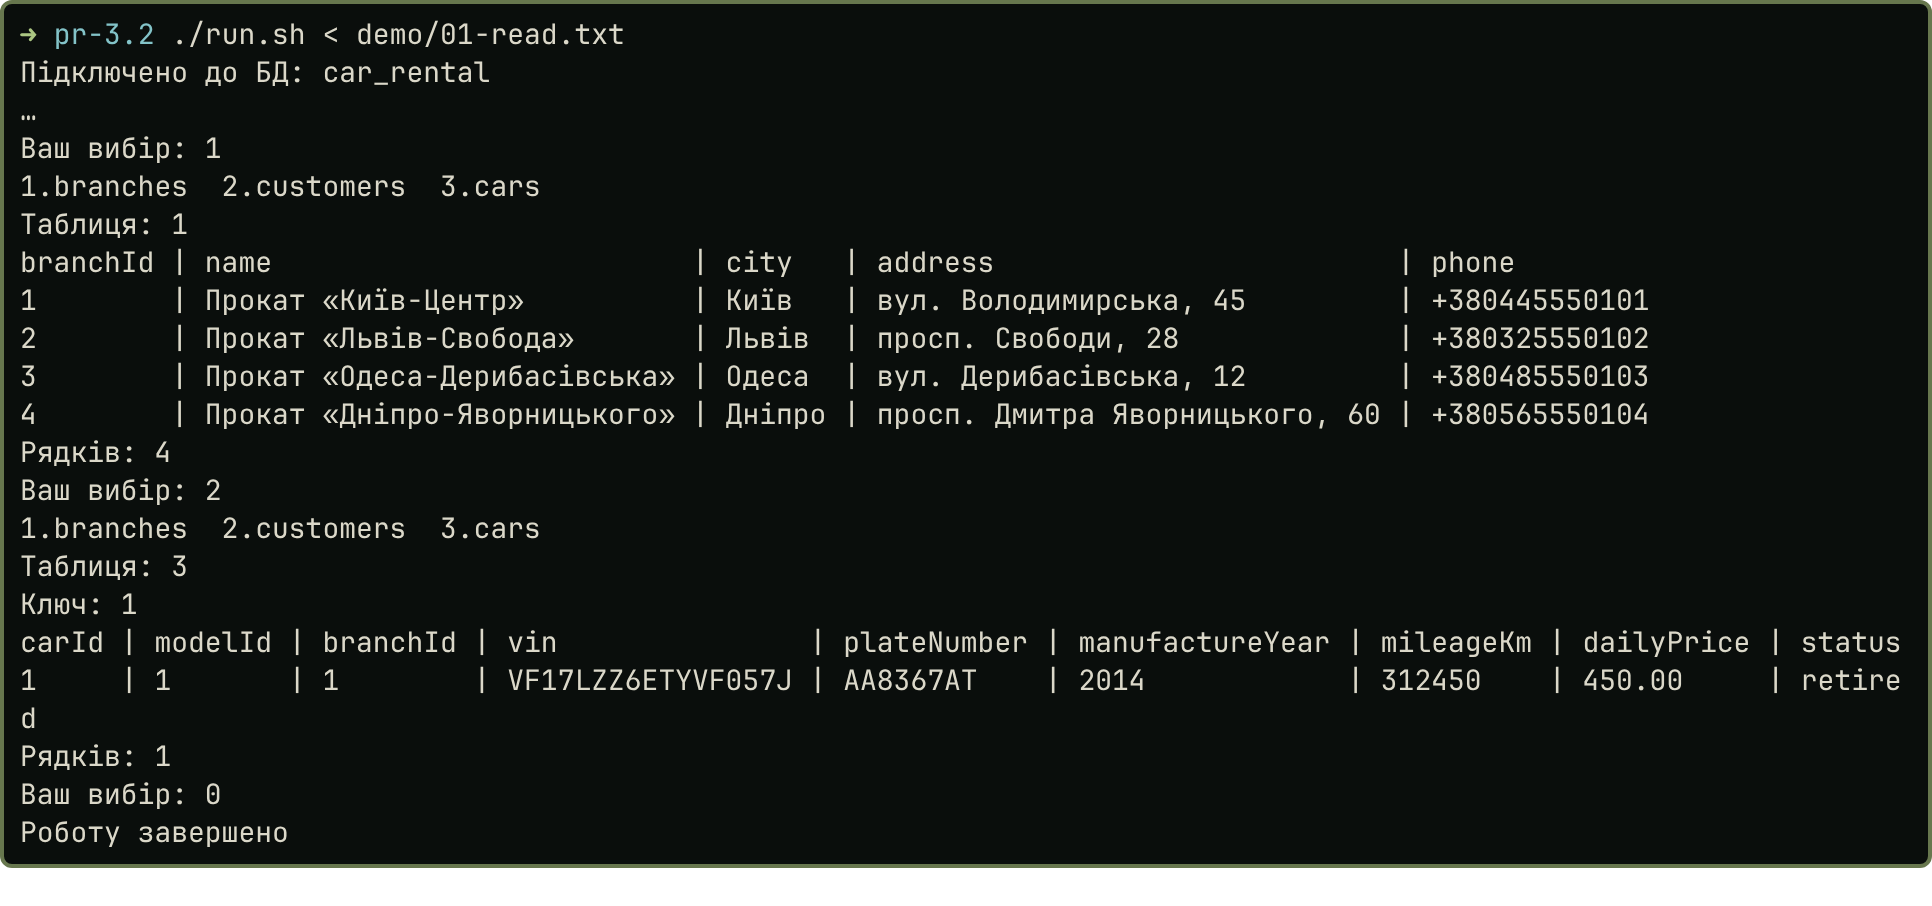
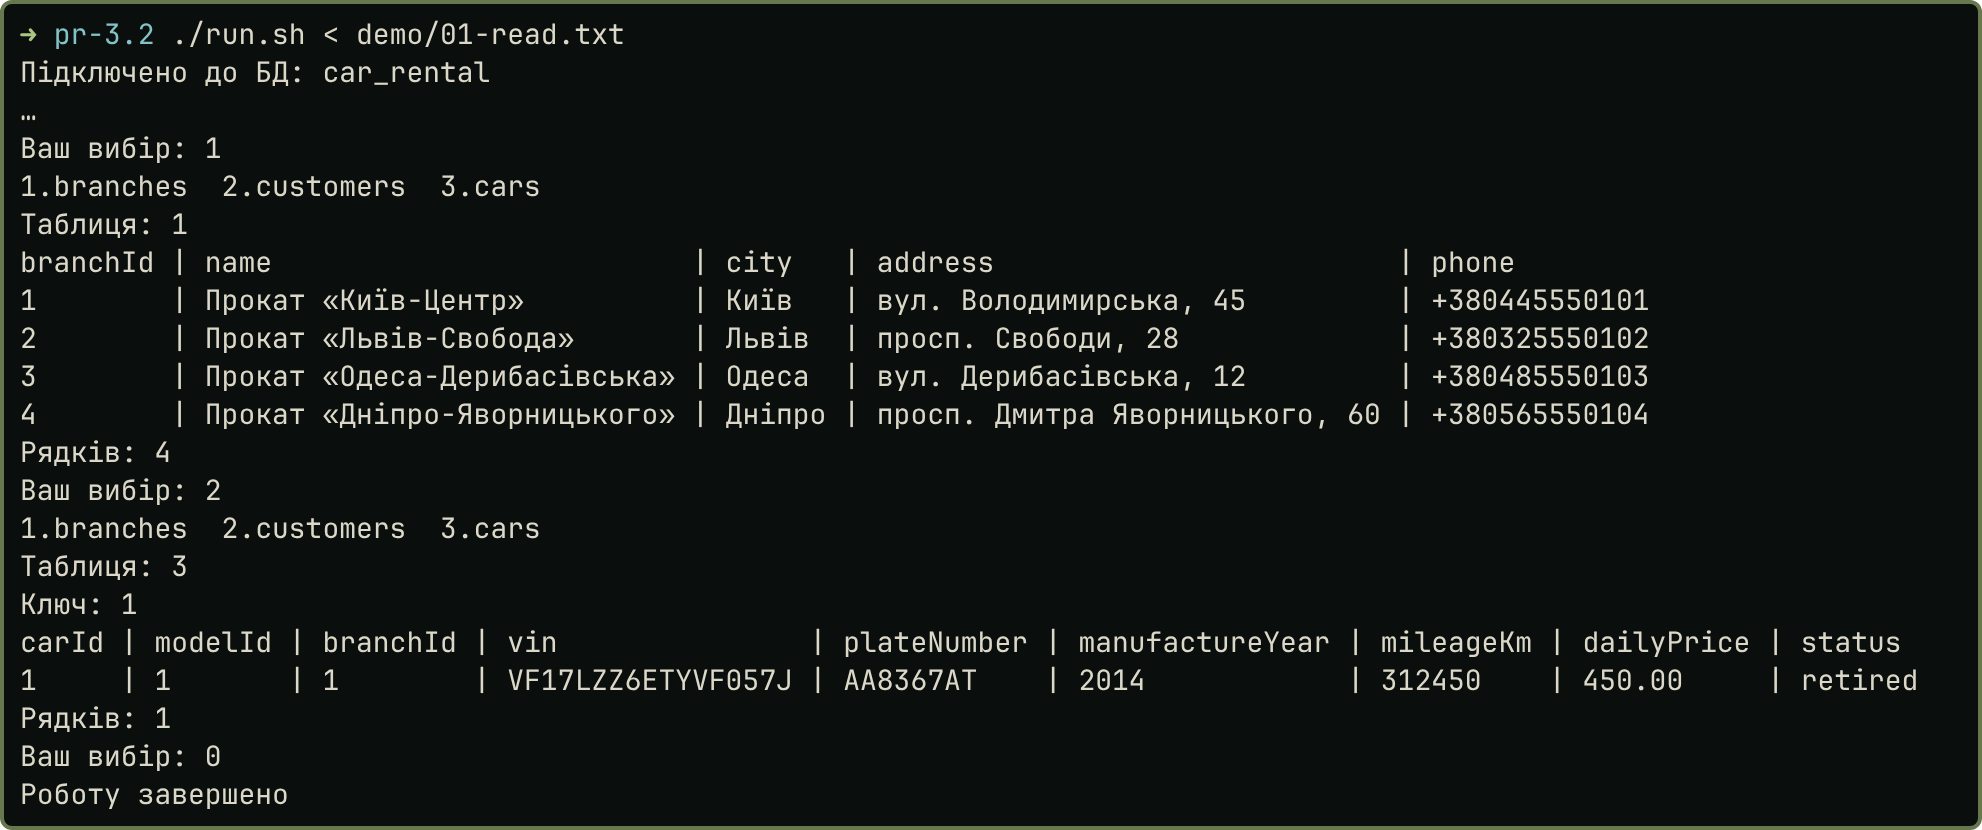
docs(db): polish reports 3.2, 5.2-5.4

diff --git a/db/sr-5.4/report.md b/db/sr-5.4/report.md
@@ -76,7 +76,7 @@ session.createQuery("""
 | Зв'язки між таблицями | вручну в `JOIN` | вручну в `JOIN` | поля класів, `join` за зв'язком |
 | Міграції схеми | немає | немає | генерація сутностей і `validate`; версії дав Flyway |
 | Ризик N+1 | не виникає непомітно: кожен запит пишу сам, цикл із запитом на рядок дав би його теж | те саме | виникає непомітно через ліниве завантаження (рис. 3) |
-| Де доречно | прості й некритичні до часу операції, звіти, один раз написані запити | звіти й запити, де потрібен свій SQL і зручний результат | багата доменна модель із зв'язками й CRUD |
+| Де доречно | прості утиліти, пакетні операції й місця, де потрібен повний контроль над SQL | звіти й запити, де потрібен свій SQL і зручний результат | багата доменна модель із зв'язками й CRUD |
 
 Те, що в Hibernate менше контролю, видно з двох дослідів. На рис. 2 JPQL запиту 6 став SQL із підзапитом у `select`, з псевдонімами `o1_0` і `e1_0` та повними іменами `northwind_orm`.`orders`: структуру я задав, але текст пише бібліотека. На рис. 3 цикл по 10 замовленнях із зверненням до співробітника дав 6 SQL-запитів (1 і 5 різних співробітників), а `join fetch` один. Тобто різницю в запитах треба перевіряти вручну, як радить лекція (слайд 19).
 

diff --git a/db/sr-5.3/report.md b/db/sr-5.3/report.md
@@ -98,5 +98,5 @@ DB_URL='jdbc:mysql://<сервер>.mysql.database.azure.com:3306/car_rental?ssl
 
 ## Список джерел
 
-1. Лекції Л 3.1 і 3.2 (слайд 23, підключення до БД) та Л 3.3 (8) (слайд про DBaaS); звіти до ПР № 1.1 і ПР № 3.1.
+1. Лекції Л 3.1-3.3 (підключення до БД, DBaaS); звіти ПР № 1.1 і 3.1; скрипти <https://github.com/brizzinck/krinzhrepoduta/tree/main/db/sr-5.3>.
 2. Microsoft Learn, дата доступу 13.11.2026. Початок адреси `https://learn.microsoft.com/en-us/azure/mysql/`, далі: `flexible-server/overview`, `flexible-server/connect-java`, `security/security-tls-how-to-connect` і `flexible-server/concepts-` з одним із закінчень `networking`, `networking-public`, `networking-vnet`, `backup-restore`, `high-availability`, `read-replicas`, `limitations`, `service-tiers-storage`.
